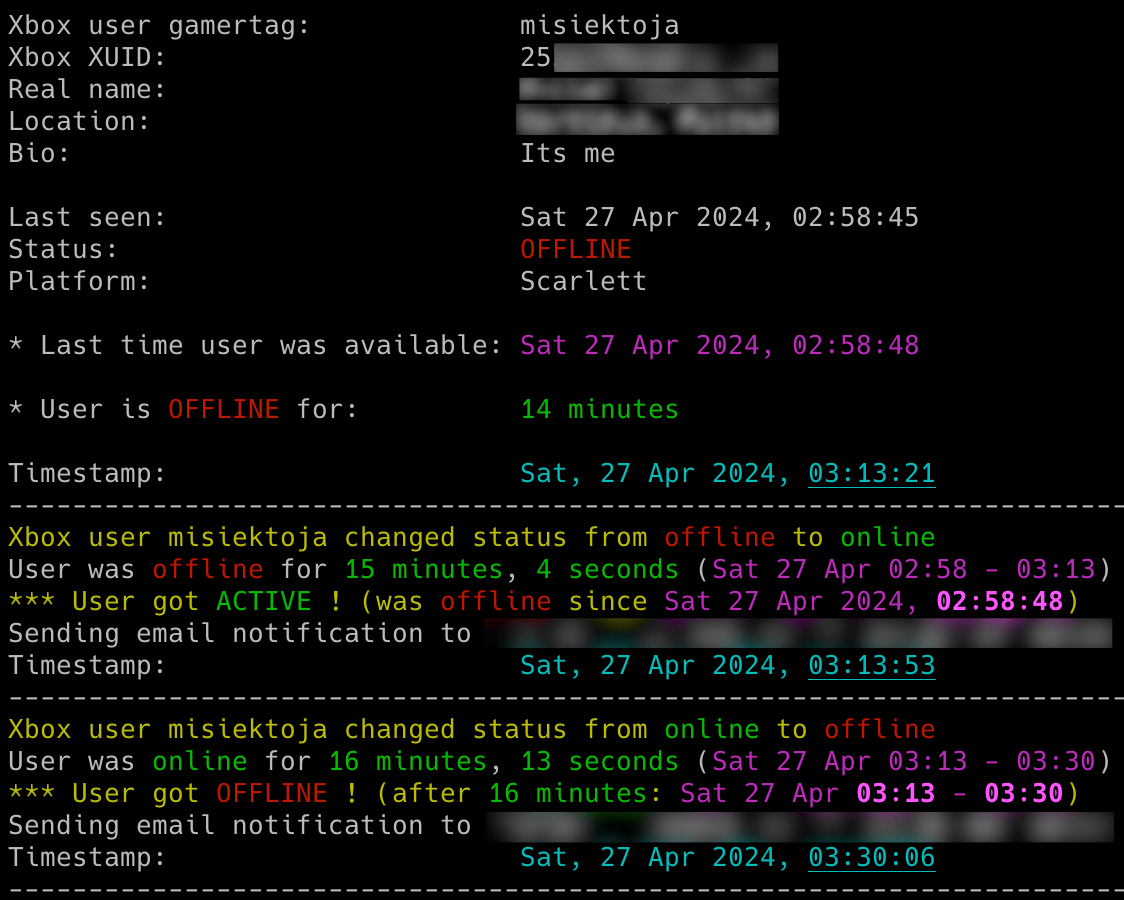
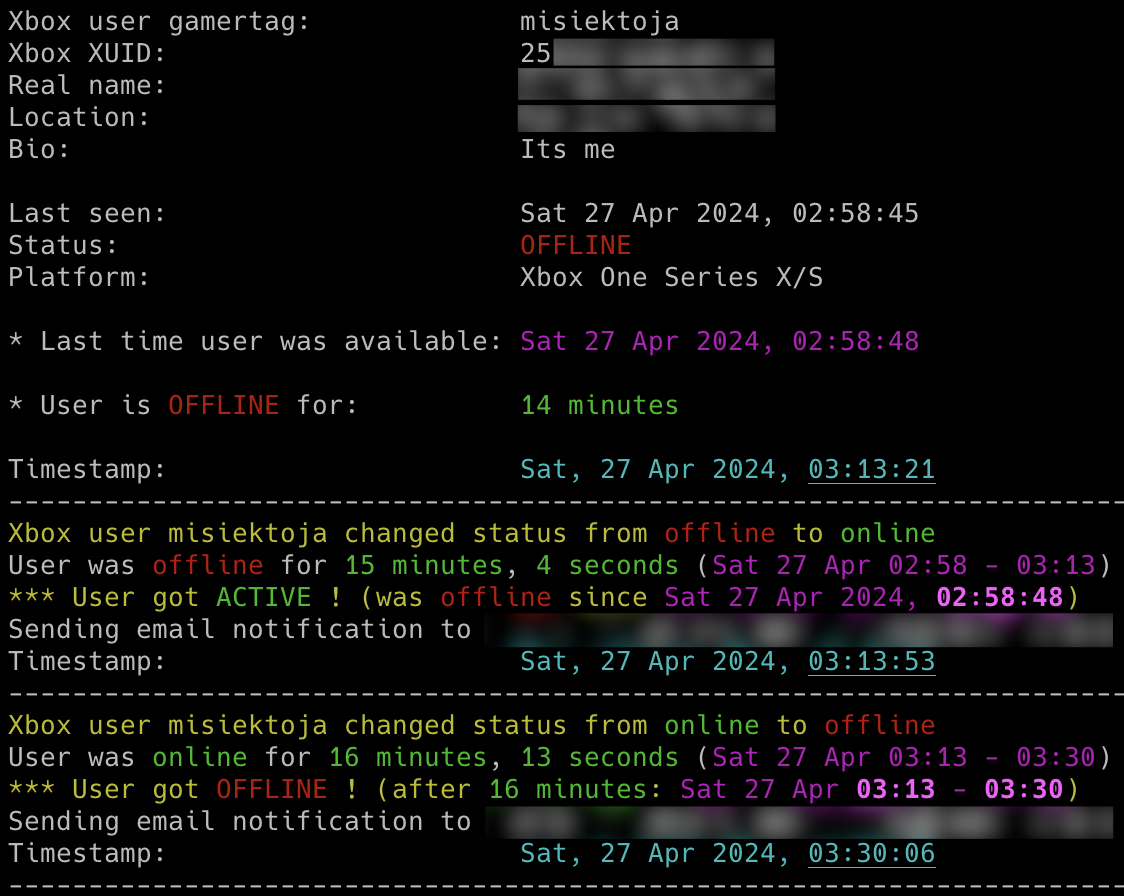
Mapping of platforms + fix for no last seen available

diff --git a/xbox_monitor.py b/xbox_monitor.py
@@ -359,7 +359,7 @@ async def xbox_monitor_user(xbox_gamertag,error_notification,csv_file_name,csv_e
     status_ts = 0
     status_old_ts = 0
     status_online_start_ts = 0
-    lastonline=""
+    lastonline=0
     lastonline_ts = 0
     status = ""
     xuid = 0
@@ -456,6 +456,16 @@ async def xbox_monitor_user(xbox_gamertag,error_notification,csv_file_name,csv_e
                 if 'device_type' in dir(last_seen_class):
                     if last_seen_class.device_type:
                         platform=last_seen_class.device_type
+                        if ("scarlett" or "anaconda" or "starkville" or "lockhart" or "edith") in str(platform).lower():
+                            platform="Xbox One Series X/S"
+                        elif ("scorpio" or "edmonton") in str(platform).lower():
+                            platform="Xbox One X/S"
+                        elif "durango" in str(platform).lower():
+                            platform="Xbox One"
+                        elif "xenon" in str(platform).lower():
+                            platform="Xbox 360"                            
+                        elif "windows" in str(platform).lower(): # WindowsOneCore
+                            platform="Windows"
                 if 'timestamp' in dir(last_seen_class):
                     if last_seen_class.timestamp:
                         lastonline=last_seen_class.timestamp                                           
@@ -472,7 +482,9 @@ async def xbox_monitor_user(xbox_gamertag,error_notification,csv_file_name,csv_e
             lastonline_dt=convert_utc_str_to_tz_datetime(str(lastonline),LOCAL_TIMEZONE)
             lastonline_ts=int(lastonline_dt.timestamp())
             lastonline_str=get_date_from_ts(int(lastonline_ts))
-        else:
+        elif not lastonline and status=="offline":
+            lastonline_str="not available"
+        elif status!="offline":
             lastonline_str=get_cur_ts()
 
         status_old_ts = int(time.time())
